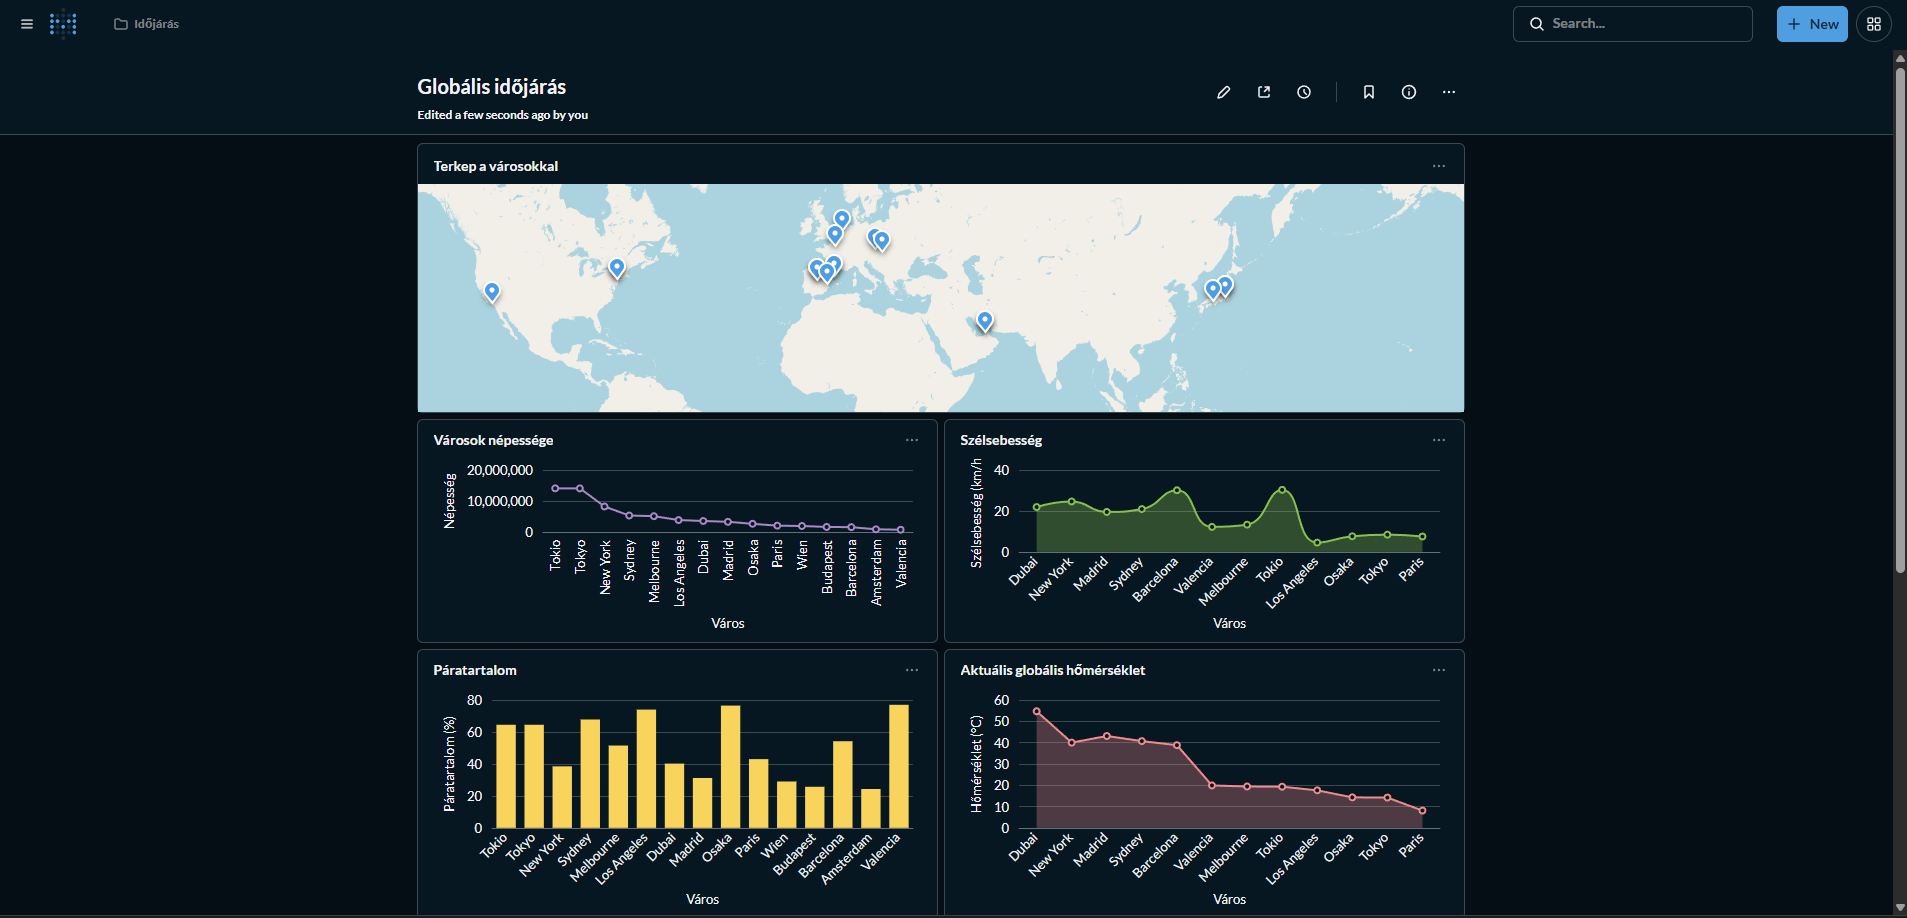
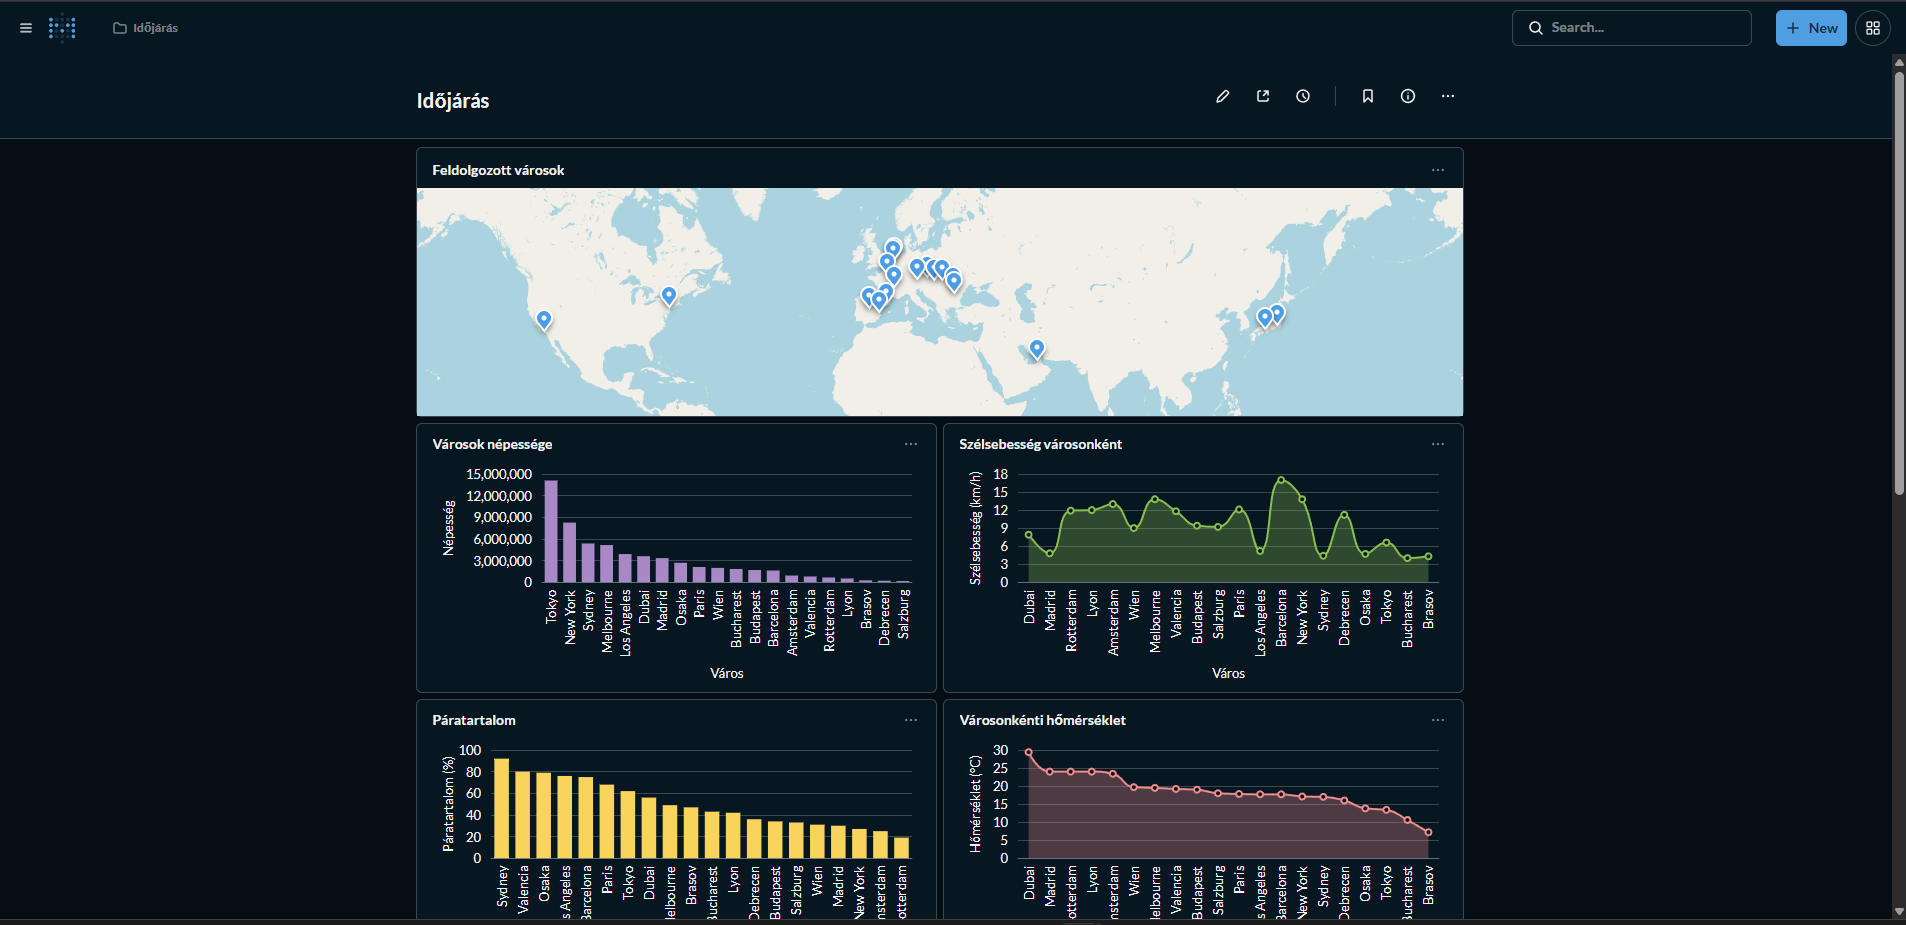
Dokumentáció frissítése

diff --git a/README.md b/README.md
@@ -25,13 +25,14 @@ A pipeline egy modern, lokális, konténerizált adatplatformot valósít meg az
 ## 2. Adatmodell (Csillag séma)
 
 Az adattárház tervezése során a klasszikus Kimball-féle csillag sémát (Star Schema) alkalmaztuk az analitikai lekérdezések (OLAP) gyorsítása érdekében.
-![Airflow Sikeres Futás](Images/er_diagram.png)
+
+![Adatmodell ER diagram](Images/er_diagram.png)
 
 ---
 
 ## 3. Futtatás és Használat
 
-Futtatás előtt a .env.example fájl nevét írd át .env-re, vagy hozz létre egy sajátot a szükséges változókkal.
+Futtatás előtt a `.env.example` fájl nevét írd át `.env`-re, vagy hozz létre egy sajátot a szükséges változókkal.
 
 A projekt teljes infrastruktúrája konténerizálva van, így a futtatása mindössze pár lépésből áll:
 
@@ -43,7 +44,15 @@ A projekt teljes infrastruktúrája konténerizálva van, így a futtatása mind
 
 ![Airflow Sikeres Futás](Images/airflow.png)
 
-3. Az analitikai adatbázisra kötött **Metabase BI Dashboardot** a `http://localhost:3000` címen éred el. Az első indításkor egy admin fiók létrehozása szükséges az adatok vizualizációjához.
+3. Az analitikai adatbázisra kötött **Metabase BI Dashboardot** a `http://localhost:3000` címen éred el. 
+   Az első indításkor egy admin fiók létrehozása szükséges az adatok vizualizációjához. Ezt követően a Metabase kérni fogja az adatbázis-kapcsolat beállítását. Ehhez a következő adatokat kell megadni (a Docker hálózat és a `.env` fájl alapján):
+   * **Adatbázis típusa (Database type):** PostgreSQL
+   * **Név (Name):** weather_db (vagy tetszőleges név a Metabase felületén)
+   * **Host:** `postgres` *(Fontos: nem localhost, mert a konténerek a "postgres" néven látják egymást)*
+   * **Port:** 5432
+   * **Adatbázis neve (Database name):** `weather_db`
+   * **Felhasználónév (Username):** `airflow`
+   * **Jelszó (Password):** `airflow`
 
 ---
 
@@ -56,10 +65,8 @@ Megmutatja a legfrissebb letöltött időjárási adatokat városonként.
 ```sql
 SELECT 
     c.city_name AS "Város", 
-    c.country AS "Ország", 
     w.temperature AS "Hőmérséklet (°C)", 
-    w.wind_speed AS "Szélsebesség (km/h)",
-    d.full_datetime AS "Mérés ideje"
+    w.wind_speed AS "Szélsebesség (km/h)"
 FROM fact_weather w
 JOIN dim_cities c ON w.city_id = c.city_id
 JOIN dim_date d ON w.date_id = d.date_id
@@ -78,8 +85,20 @@ SELECT
 FROM dim_cities;
 ```
 
+### Városok páratartalma
+Megmutatja az egyes városokban a páratartalom százalékát a legutolsó mérés alapján.
+```sql
+SELECT 
+    c.city_name AS "Város", 
+    w.humidity AS "Páratartalom (%)"
+FROM fact_weather w
+JOIN dim_cities c ON w.city_id = c.city_id
+WHERE w.date_id = (SELECT MAX(date_id) FROM dim_date)
+ORDER BY w.humidity DESC;
+```
+
 ### Országok átlag hőmérséklete és szélsebessége
-A Metabase térképes (Pin map) vizualizációjához szükséges földrajzi koordináták lekérdezése.
+Megmutatja az egyes országok aggregált átlagos hőmérsékletét és szélsebességét a legutolsó mérések alapján, a dedikált aggregációs Data Mart táblából.
 ```sql
 SELECT 
     country AS "Ország", 
@@ -92,8 +111,36 @@ WHERE a.date_id = (SELECT MAX(date_id) FROM agg_country_weather)
 ORDER BY avg_temperature DESC;
 ```
 
+### Városok népessége
+Megmutatja az egyes városok népességét.
+```sql
+SELECT 
+    city_name AS "Város", 
+    country AS "Ország",
+    population AS "Népesség"
+FROM dim_cities
+ORDER BY population DESC;
+```
+
+### Városok hőmérsékletének átlaga az utolsó napon 
+Kiszámolja a legutolsó rögzített nap napi átlaghőmérsékletét, szélsebességét és páratartalmát városonként.
+```sql
+SELECT 
+    DATE(d.full_datetime) AS "Nap",
+    c.city_name AS "Város",
+    ROUND(AVG(w.temperature), 2) AS "Napi Átlaghőmérséklet (°C)",
+    ROUND(AVG(w.wind_speed), 2) AS "Napi Átlag Szélsebesség (km/h)",
+    ROUND(AVG(w.humidity), 0) AS "Napi Átlag Páratartalom (%)"
+FROM fact_weather w
+JOIN dim_cities c ON w.city_id = c.city_id
+JOIN dim_date d ON w.date_id = d.date_id
+WHERE DATE(d.full_datetime) = (SELECT MAX(DATE(full_datetime)) FROM dim_date)
+GROUP BY DATE(d.full_datetime), c.city_name
+ORDER BY "Napi Átlaghőmérséklet (°C)" DESC;
+```
+
 ### Metabase Dashboard
 A fenti lekérdezésekből összeállított végső, interaktív BI Dashboard:
 
-![Metabase Dashboard](Images/dashboard1.png)
-![Metabase Dashboard](Images/dashboard2.png)
+![Metabase Dashboard 1](Images/dashboard1.png)
+![Metabase Dashboard 2](Images/dashboard2.png)
